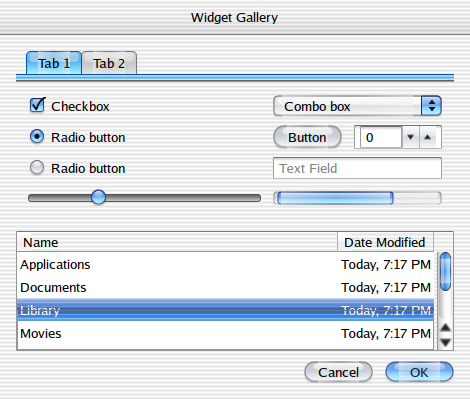
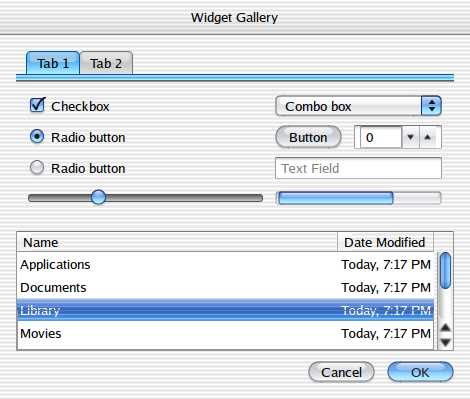
GTK: tile the gel middle instead of stretching it; tuck it under the caps
GTK 3 fades the edges of a stretched 1px image into transparency, which
left light bands across tabs, buttons and pop-ups, and the anti-aliased
clip edge at the caps left a seam. The middle column now repeats at its
natural size and starts 1px under each cap. Rows across a tab are flat
(157 in GTK 3, GTK 4 and Qt alike).

diff --git a/gtk/Pinstripe/gtk-4.0/gtk.css b/gtk/Pinstripe/gtk-4.0/gtk.css
@@ -35,10 +35,10 @@ label:disabled, label:backdrop:disabled { color: #8a8a8a; }
 button {
   min-height: 22px;
   min-width: 41px;
-  padding: 0 14px;
+  padding: 0 13px;  /* one less than the 14px caps: the middle tucks under them, no seam */
   border-style: solid;
   border-width: 0;
-  background-image: -gtk-scaled(url("assets/button-s.png"), url("assets/button-s@2.png")), -gtk-scaled(url("assets/button-e.png"), url("assets/button-e@2.png")), -gtk-scaled(url("assets/button-m.png"), url("assets/button-m@2.png")); background-position: left top, right top, left top; background-size: 14px 100%, 14px 100%, 100% 100%; background-repeat: no-repeat; background-origin: border-box, border-box, content-box; background-clip: border-box, border-box, content-box; border-image: none;
+  background-image: -gtk-scaled(url("assets/button-s.png"), url("assets/button-s@2.png")), -gtk-scaled(url("assets/button-e.png"), url("assets/button-e@2.png")), -gtk-scaled(url("assets/button-m.png"), url("assets/button-m@2.png")); background-position: left top, right top, left top; background-size: 14px 100%, 14px 100%, 1px 100%; background-repeat: no-repeat, no-repeat, repeat-x; background-origin: border-box, border-box, content-box; background-clip: border-box, border-box, content-box; border-image: none;
   border-radius: 0;
   box-shadow: none;
   color: #000000;
@@ -46,14 +46,14 @@ button {
   -gtk-icon-shadow: none;
 }
 button:active, button:checked {
-  background-image: -gtk-scaled(url("assets/button-pressed-s.png"), url("assets/button-pressed-s@2.png")), -gtk-scaled(url("assets/button-pressed-e.png"), url("assets/button-pressed-e@2.png")), -gtk-scaled(url("assets/button-pressed-m.png"), url("assets/button-pressed-m@2.png")); background-position: left top, right top, left top; background-size: 14px 100%, 14px 100%, 100% 100%; background-repeat: no-repeat; background-origin: border-box, border-box, content-box; background-clip: border-box, border-box, content-box; border-image: none;
+  background-image: -gtk-scaled(url("assets/button-pressed-s.png"), url("assets/button-pressed-s@2.png")), -gtk-scaled(url("assets/button-pressed-e.png"), url("assets/button-pressed-e@2.png")), -gtk-scaled(url("assets/button-pressed-m.png"), url("assets/button-pressed-m@2.png")); background-position: left top, right top, left top; background-size: 14px 100%, 14px 100%, 1px 100%; background-repeat: no-repeat, no-repeat, repeat-x; background-origin: border-box, border-box, content-box; background-clip: border-box, border-box, content-box; border-image: none;
 }
 button.suggested-action, button.default, button.default:focus {
-  background-image: -gtk-scaled(url("assets/button-default-s.png"), url("assets/button-default-s@2.png")), -gtk-scaled(url("assets/button-default-e.png"), url("assets/button-default-e@2.png")), -gtk-scaled(url("assets/button-default-m.png"), url("assets/button-default-m@2.png")); background-position: left top, right top, left top; background-size: 14px 100%, 14px 100%, 100% 100%; background-repeat: no-repeat; background-origin: border-box, border-box, content-box; background-clip: border-box, border-box, content-box; border-image: none;
+  background-image: -gtk-scaled(url("assets/button-default-s.png"), url("assets/button-default-s@2.png")), -gtk-scaled(url("assets/button-default-e.png"), url("assets/button-default-e@2.png")), -gtk-scaled(url("assets/button-default-m.png"), url("assets/button-default-m@2.png")); background-position: left top, right top, left top; background-size: 14px 100%, 14px 100%, 1px 100%; background-repeat: no-repeat, no-repeat, repeat-x; background-origin: border-box, border-box, content-box; background-clip: border-box, border-box, content-box; border-image: none;
   animation: pinstripe-pulse 1.7s ease-in-out infinite;
 }
 button.suggested-action:backdrop, button.default:backdrop {
-  background-image: -gtk-scaled(url("assets/button-s.png"), url("assets/button-s@2.png")), -gtk-scaled(url("assets/button-e.png"), url("assets/button-e@2.png")), -gtk-scaled(url("assets/button-m.png"), url("assets/button-m@2.png")); background-position: left top, right top, left top; background-size: 14px 100%, 14px 100%, 100% 100%; background-repeat: no-repeat; background-origin: border-box, border-box, content-box; background-clip: border-box, border-box, content-box; border-image: none;
+  background-image: -gtk-scaled(url("assets/button-s.png"), url("assets/button-s@2.png")), -gtk-scaled(url("assets/button-e.png"), url("assets/button-e@2.png")), -gtk-scaled(url("assets/button-m.png"), url("assets/button-m@2.png")); background-position: left top, right top, left top; background-size: 14px 100%, 14px 100%, 1px 100%; background-repeat: no-repeat, no-repeat, repeat-x; background-origin: border-box, border-box, content-box; background-clip: border-box, border-box, content-box; border-image: none;
   animation: none;
 }
 @keyframes pinstripe-pulse {
@@ -62,7 +62,7 @@ button.suggested-action:backdrop, button.default:backdrop {
   100% { opacity: 1.0; }
 }
 button:disabled { opacity: 0.55; color: #555555; }
-button.destructive-action { background-image: -gtk-scaled(url("assets/button-s.png"), url("assets/button-s@2.png")), -gtk-scaled(url("assets/button-e.png"), url("assets/button-e@2.png")), -gtk-scaled(url("assets/button-m.png"), url("assets/button-m@2.png")); background-position: left top, right top, left top; background-size: 14px 100%, 14px 100%, 100% 100%; background-repeat: no-repeat; background-origin: border-box, border-box, content-box; background-clip: border-box, border-box, content-box; border-image: none; color: #a01010; }
+button.destructive-action { background-image: -gtk-scaled(url("assets/button-s.png"), url("assets/button-s@2.png")), -gtk-scaled(url("assets/button-e.png"), url("assets/button-e@2.png")), -gtk-scaled(url("assets/button-m.png"), url("assets/button-m@2.png")); background-position: left top, right top, left top; background-size: 14px 100%, 14px 100%, 1px 100%; background-repeat: no-repeat, no-repeat, repeat-x; background-origin: border-box, border-box, content-box; background-clip: border-box, border-box, content-box; border-image: none; color: #a01010; }
 
 /* flat and toolbar buttons: no frame in Aqua, darken while pressed */
 button.flat, headerbar button:not(.titlebutton):not(.suggested-action):not(.close):not(.minimize):not(.maximize), toolbar button, .toolbar button,
@@ -180,18 +180,18 @@ scrollbar > range > trough > slider {
 }
 scrollbar.vertical slider {
   min-height: 24px;
-  padding: 7px 0 8px 0;
+  padding: 6px 0 7px 0;
   border-width: 0;
-  background-image: -gtk-scaled(url("assets/thumb-v-s.png"), url("assets/thumb-v-s@2.png")), -gtk-scaled(url("assets/thumb-v-e.png"), url("assets/thumb-v-e@2.png")), -gtk-scaled(url("assets/thumb-v-m.png"), url("assets/thumb-v-m@2.png")); background-position: left top, left bottom, left top; background-size: 100% 7px, 100% 8px, 100% 100%; background-repeat: no-repeat; background-origin: border-box, border-box, content-box; background-clip: border-box, border-box, content-box; border-image: none;
+  background-image: -gtk-scaled(url("assets/thumb-v-s.png"), url("assets/thumb-v-s@2.png")), -gtk-scaled(url("assets/thumb-v-e.png"), url("assets/thumb-v-e@2.png")), -gtk-scaled(url("assets/thumb-v-m.png"), url("assets/thumb-v-m@2.png")); background-position: left top, left bottom, left top; background-size: 100% 7px, 100% 8px, 100% 1px; background-repeat: no-repeat, no-repeat, repeat-y; background-origin: border-box, border-box, content-box; background-clip: border-box, border-box, content-box; border-image: none;
 }
 scrollbar.horizontal slider {
   min-width: 24px;
-  padding: 0 8px 0 7px;
+  padding: 0 7px 0 6px;
   border-width: 0;
-  background-image: -gtk-scaled(url("assets/thumb-h-s.png"), url("assets/thumb-h-s@2.png")), -gtk-scaled(url("assets/thumb-h-e.png"), url("assets/thumb-h-e@2.png")), -gtk-scaled(url("assets/thumb-h-m.png"), url("assets/thumb-h-m@2.png")); background-position: left top, right top, left top; background-size: 7px 100%, 8px 100%, 100% 100%; background-repeat: no-repeat; background-origin: border-box, border-box, content-box; background-clip: border-box, border-box, content-box; border-image: none;
+  background-image: -gtk-scaled(url("assets/thumb-h-s.png"), url("assets/thumb-h-s@2.png")), -gtk-scaled(url("assets/thumb-h-e.png"), url("assets/thumb-h-e@2.png")), -gtk-scaled(url("assets/thumb-h-m.png"), url("assets/thumb-h-m@2.png")); background-position: left top, right top, left top; background-size: 7px 100%, 8px 100%, 1px 100%; background-repeat: no-repeat, no-repeat, repeat-x; background-origin: border-box, border-box, content-box; background-clip: border-box, border-box, content-box; border-image: none;
 }
-scrollbar.vertical slider:backdrop { background-image: -gtk-scaled(url("assets/thumb-v-backdrop-s.png"), url("assets/thumb-v-backdrop-s@2.png")), -gtk-scaled(url("assets/thumb-v-backdrop-e.png"), url("assets/thumb-v-backdrop-e@2.png")), -gtk-scaled(url("assets/thumb-v-backdrop-m.png"), url("assets/thumb-v-backdrop-m@2.png")); background-position: left top, left bottom, left top; background-size: 100% 7px, 100% 8px, 100% 100%; background-repeat: no-repeat; background-origin: border-box, border-box, content-box; background-clip: border-box, border-box, content-box; border-image: none; }
-scrollbar.horizontal slider:backdrop { background-image: -gtk-scaled(url("assets/thumb-h-backdrop-s.png"), url("assets/thumb-h-backdrop-s@2.png")), -gtk-scaled(url("assets/thumb-h-backdrop-e.png"), url("assets/thumb-h-backdrop-e@2.png")), -gtk-scaled(url("assets/thumb-h-backdrop-m.png"), url("assets/thumb-h-backdrop-m@2.png")); background-position: left top, right top, left top; background-size: 7px 100%, 8px 100%, 100% 100%; background-repeat: no-repeat; background-origin: border-box, border-box, content-box; background-clip: border-box, border-box, content-box; border-image: none; }
+scrollbar.vertical slider:backdrop { background-image: -gtk-scaled(url("assets/thumb-v-backdrop-s.png"), url("assets/thumb-v-backdrop-s@2.png")), -gtk-scaled(url("assets/thumb-v-backdrop-e.png"), url("assets/thumb-v-backdrop-e@2.png")), -gtk-scaled(url("assets/thumb-v-backdrop-m.png"), url("assets/thumb-v-backdrop-m@2.png")); background-position: left top, left bottom, left top; background-size: 100% 7px, 100% 8px, 100% 1px; background-repeat: no-repeat, no-repeat, repeat-y; background-origin: border-box, border-box, content-box; background-clip: border-box, border-box, content-box; border-image: none; }
+scrollbar.horizontal slider:backdrop { background-image: -gtk-scaled(url("assets/thumb-h-backdrop-s.png"), url("assets/thumb-h-backdrop-s@2.png")), -gtk-scaled(url("assets/thumb-h-backdrop-e.png"), url("assets/thumb-h-backdrop-e@2.png")), -gtk-scaled(url("assets/thumb-h-backdrop-m.png"), url("assets/thumb-h-backdrop-m@2.png")); background-position: left top, right top, left top; background-size: 7px 100%, 8px 100%, 1px 100%; background-repeat: no-repeat, no-repeat, repeat-x; background-origin: border-box, border-box, content-box; background-clip: border-box, border-box, content-box; border-image: none; }
 scrollbar button {
   min-width: 15px; min-height: 15px;
   padding: 0; border-width: 0; border-image: none; animation: none;
@@ -248,20 +248,20 @@ scale slider:backdrop { background-image: -gtk-scaled(url("assets/knob-backdrop.
 /* ---------------- progress bars: light gel groove, blue gel fill (grey in the background) */
 progressbar trough {
   min-height: 14px; min-width: 14px;
-  padding: 0 4px;
+  padding: 0 3px;
   border-style: solid;
   border-width: 0;
-  background-image: -gtk-scaled(url("assets/trough-s.png"), url("assets/trough-s@2.png")), -gtk-scaled(url("assets/trough-e.png"), url("assets/trough-e@2.png")), -gtk-scaled(url("assets/trough-m.png"), url("assets/trough-m@2.png")); background-position: left top, right top, left top; background-size: 4px 100%, 4px 100%, 100% 100%; background-repeat: no-repeat; background-origin: border-box, border-box, content-box; background-clip: border-box, border-box, content-box; border-image: none;
+  background-image: -gtk-scaled(url("assets/trough-s.png"), url("assets/trough-s@2.png")), -gtk-scaled(url("assets/trough-e.png"), url("assets/trough-e@2.png")), -gtk-scaled(url("assets/trough-m.png"), url("assets/trough-m@2.png")); background-position: left top, right top, left top; background-size: 4px 100%, 4px 100%, 1px 100%; background-repeat: no-repeat, no-repeat, repeat-x; background-origin: border-box, border-box, content-box; background-clip: border-box, border-box, content-box; border-image: none;
 }
 progressbar progress {
   min-height: 14px; min-width: 8px;
-  padding: 0 4px;
+  padding: 0 3px;
   margin: 0;
   border-style: solid;
   border-width: 0;
-  background-image: -gtk-scaled(url("assets/progress-s.png"), url("assets/progress-s@2.png")), -gtk-scaled(url("assets/progress-e.png"), url("assets/progress-e@2.png")), -gtk-scaled(url("assets/progress-m.png"), url("assets/progress-m@2.png")); background-position: left top, right top, left top; background-size: 4px 100%, 4px 100%, 100% 100%; background-repeat: no-repeat; background-origin: border-box, border-box, content-box; background-clip: border-box, border-box, content-box; border-image: none;
+  background-image: -gtk-scaled(url("assets/progress-s.png"), url("assets/progress-s@2.png")), -gtk-scaled(url("assets/progress-e.png"), url("assets/progress-e@2.png")), -gtk-scaled(url("assets/progress-m.png"), url("assets/progress-m@2.png")); background-position: left top, right top, left top; background-size: 4px 100%, 4px 100%, 1px 100%; background-repeat: no-repeat, no-repeat, repeat-x; background-origin: border-box, border-box, content-box; background-clip: border-box, border-box, content-box; border-image: none;
 }
-progressbar progress:backdrop { background-image: -gtk-scaled(url("assets/progress-backdrop-s.png"), url("assets/progress-backdrop-s@2.png")), -gtk-scaled(url("assets/progress-backdrop-e.png"), url("assets/progress-backdrop-e@2.png")), -gtk-scaled(url("assets/progress-backdrop-m.png"), url("assets/progress-backdrop-m@2.png")); background-position: left top, right top, left top; background-size: 4px 100%, 4px 100%, 100% 100%; background-repeat: no-repeat; background-origin: border-box, border-box, content-box; background-clip: border-box, border-box, content-box; border-image: none; }
+progressbar progress:backdrop { background-image: -gtk-scaled(url("assets/progress-backdrop-s.png"), url("assets/progress-backdrop-s@2.png")), -gtk-scaled(url("assets/progress-backdrop-e.png"), url("assets/progress-backdrop-e@2.png")), -gtk-scaled(url("assets/progress-backdrop-m.png"), url("assets/progress-backdrop-m@2.png")); background-position: left top, right top, left top; background-size: 4px 100%, 4px 100%, 1px 100%; background-repeat: no-repeat, no-repeat, repeat-x; background-origin: border-box, border-box, content-box; background-clip: border-box, border-box, content-box; border-image: none; }
 progressbar.osd progress { min-height: 4px; }
 
 /* ---------------- notebooks: 23px tabs centred over a 6px blue accent bar */
@@ -278,16 +278,16 @@ notebook > header.top {
 }
 notebook > header tab {
   min-height: 23px;
-  padding: 0 12px;
+  padding: 0 11px;
   margin: 0 -1px 0 0;
   background-color: transparent;
   border-style: solid;
   border-width: 0;
-  background-image: -gtk-scaled(url("assets/tab-s.png"), url("assets/tab-s@2.png")), -gtk-scaled(url("assets/tab-e.png"), url("assets/tab-e@2.png")), -gtk-scaled(url("assets/tab-m.png"), url("assets/tab-m@2.png")); background-position: left top, right top, left top; background-size: 12px 100%, 12px 100%, 100% 100%; background-repeat: no-repeat; background-origin: border-box, border-box, content-box; background-clip: border-box, border-box, content-box; border-image: none;
+  background-image: -gtk-scaled(url("assets/tab-s.png"), url("assets/tab-s@2.png")), -gtk-scaled(url("assets/tab-e.png"), url("assets/tab-e@2.png")), -gtk-scaled(url("assets/tab-m.png"), url("assets/tab-m@2.png")); background-position: left top, right top, left top; background-size: 12px 100%, 12px 100%, 1px 100%; background-repeat: no-repeat, no-repeat, repeat-x; background-origin: border-box, border-box, content-box; background-clip: border-box, border-box, content-box; border-image: none;
   color: #000000;
 }
-notebook > header tab:checked { background-image: -gtk-scaled(url("assets/tab-active-s.png"), url("assets/tab-active-s@2.png")), -gtk-scaled(url("assets/tab-active-e.png"), url("assets/tab-active-e@2.png")), -gtk-scaled(url("assets/tab-active-m.png"), url("assets/tab-active-m@2.png")); background-position: left top, right top, left top; background-size: 12px 100%, 12px 100%, 100% 100%; background-repeat: no-repeat; background-origin: border-box, border-box, content-box; background-clip: border-box, border-box, content-box; border-image: none; }
-notebook > header tab:checked:backdrop { background-image: -gtk-scaled(url("assets/tab-active-backdrop-s.png"), url("assets/tab-active-backdrop-s@2.png")), -gtk-scaled(url("assets/tab-active-backdrop-e.png"), url("assets/tab-active-backdrop-e@2.png")), -gtk-scaled(url("assets/tab-active-backdrop-m.png"), url("assets/tab-active-backdrop-m@2.png")); background-position: left top, right top, left top; background-size: 12px 100%, 12px 100%, 100% 100%; background-repeat: no-repeat; background-origin: border-box, border-box, content-box; background-clip: border-box, border-box, content-box; border-image: none; }
+notebook > header tab:checked { background-image: -gtk-scaled(url("assets/tab-active-s.png"), url("assets/tab-active-s@2.png")), -gtk-scaled(url("assets/tab-active-e.png"), url("assets/tab-active-e@2.png")), -gtk-scaled(url("assets/tab-active-m.png"), url("assets/tab-active-m@2.png")); background-position: left top, right top, left top; background-size: 12px 100%, 12px 100%, 1px 100%; background-repeat: no-repeat, no-repeat, repeat-x; background-origin: border-box, border-box, content-box; background-clip: border-box, border-box, content-box; border-image: none; }
+notebook > header tab:checked:backdrop { background-image: -gtk-scaled(url("assets/tab-active-backdrop-s.png"), url("assets/tab-active-backdrop-s@2.png")), -gtk-scaled(url("assets/tab-active-backdrop-e.png"), url("assets/tab-active-backdrop-e@2.png")), -gtk-scaled(url("assets/tab-active-backdrop-m.png"), url("assets/tab-active-backdrop-m@2.png")); background-position: left top, right top, left top; background-size: 12px 100%, 12px 100%, 1px 100%; background-repeat: no-repeat, no-repeat, repeat-x; background-origin: border-box, border-box, content-box; background-clip: border-box, border-box, content-box; border-image: none; }
 notebook > stack:not(:only-child) {
   background-color: rgba(0, 0, 0, 0.03);
   background-image: linear-gradient(to bottom, rgba(0,0,0,0.16), rgba(0,0,0,0) 6px);
@@ -329,13 +329,13 @@ popover > contents separator, menu separator { margin: 5px 0; background: none; 
 /* ---------------- combo boxes / drop-downs: white pop-up with the blue double-arrow cap */
 combobox button.combo, dropdown > button, button.dropdown, combobox > box > button {
   min-height: 22px;
-  padding: 0 29px 0 9px;
+  padding: 0 28px 0 8px;
   border-style: solid;
   border-width: 0;
-  background-image: -gtk-scaled(url("assets/popup-s.png"), url("assets/popup-s@2.png")), -gtk-scaled(url("assets/popup-e.png"), url("assets/popup-e@2.png")), -gtk-scaled(url("assets/popup-m.png"), url("assets/popup-m@2.png")); background-position: left top, right top, left top; background-size: 9px 100%, 29px 100%, 100% 100%; background-repeat: no-repeat; background-origin: border-box, border-box, content-box; background-clip: border-box, border-box, content-box; border-image: none;
+  background-image: -gtk-scaled(url("assets/popup-s.png"), url("assets/popup-s@2.png")), -gtk-scaled(url("assets/popup-e.png"), url("assets/popup-e@2.png")), -gtk-scaled(url("assets/popup-m.png"), url("assets/popup-m@2.png")); background-position: left top, right top, left top; background-size: 9px 100%, 29px 100%, 1px 100%; background-repeat: no-repeat, no-repeat, repeat-x; background-origin: border-box, border-box, content-box; background-clip: border-box, border-box, content-box; border-image: none;
   animation: none;
 }
-combobox button.combo:backdrop, dropdown > button:backdrop { background-image: -gtk-scaled(url("assets/popup-backdrop-s.png"), url("assets/popup-backdrop-s@2.png")), -gtk-scaled(url("assets/popup-backdrop-e.png"), url("assets/popup-backdrop-e@2.png")), -gtk-scaled(url("assets/popup-backdrop-m.png"), url("assets/popup-backdrop-m@2.png")); background-position: left top, right top, left top; background-size: 9px 100%, 29px 100%, 100% 100%; background-repeat: no-repeat; background-origin: border-box, border-box, content-box; background-clip: border-box, border-box, content-box; border-image: none; }
+combobox button.combo:backdrop, dropdown > button:backdrop { background-image: -gtk-scaled(url("assets/popup-backdrop-s.png"), url("assets/popup-backdrop-s@2.png")), -gtk-scaled(url("assets/popup-backdrop-e.png"), url("assets/popup-backdrop-e@2.png")), -gtk-scaled(url("assets/popup-backdrop-m.png"), url("assets/popup-backdrop-m@2.png")); background-position: left top, right top, left top; background-size: 9px 100%, 29px 100%, 1px 100%; background-repeat: no-repeat, no-repeat, repeat-x; background-origin: border-box, border-box, content-box; background-clip: border-box, border-box, content-box; border-image: none; }
 combobox arrow, dropdown arrow { -gtk-icon-source: none; min-width: 0; min-height: 0; }
 
 /* ---------------- tooltips: Aqua's pale yellow */

diff --git a/gtk/Pinstripe/gtk-3.0/gtk.css b/gtk/Pinstripe/gtk-3.0/gtk.css
@@ -35,10 +35,10 @@ label:disabled, label:backdrop:disabled { color: #8a8a8a; }
 button {
   min-height: 22px;
   min-width: 41px;
-  padding: 0 14px;
+  padding: 0 13px;  /* one less than the 14px caps: the middle tucks under them, no seam */
   border-style: solid;
   border-width: 0;
-  background-image: -gtk-scaled(url("assets/button-s.png"), url("assets/button-s@2.png")), -gtk-scaled(url("assets/button-e.png"), url("assets/button-e@2.png")), -gtk-scaled(url("assets/button-m.png"), url("assets/button-m@2.png")); background-position: left top, right top, left top; background-size: 14px 100%, 14px 100%, 100% 100%; background-repeat: no-repeat; background-origin: border-box, border-box, content-box; background-clip: border-box, border-box, content-box; border-image: none;
+  background-image: -gtk-scaled(url("assets/button-s.png"), url("assets/button-s@2.png")), -gtk-scaled(url("assets/button-e.png"), url("assets/button-e@2.png")), -gtk-scaled(url("assets/button-m.png"), url("assets/button-m@2.png")); background-position: left top, right top, left top; background-size: 14px 100%, 14px 100%, 1px 100%; background-repeat: no-repeat, no-repeat, repeat-x; background-origin: border-box, border-box, content-box; background-clip: border-box, border-box, content-box; border-image: none;
   border-radius: 0;
   box-shadow: none;
   color: #000000;
@@ -46,14 +46,14 @@ button {
   -gtk-icon-shadow: none;
 }
 button:active, button:checked {
-  background-image: -gtk-scaled(url("assets/button-pressed-s.png"), url("assets/button-pressed-s@2.png")), -gtk-scaled(url("assets/button-pressed-e.png"), url("assets/button-pressed-e@2.png")), -gtk-scaled(url("assets/button-pressed-m.png"), url("assets/button-pressed-m@2.png")); background-position: left top, right top, left top; background-size: 14px 100%, 14px 100%, 100% 100%; background-repeat: no-repeat; background-origin: border-box, border-box, content-box; background-clip: border-box, border-box, content-box; border-image: none;
+  background-image: -gtk-scaled(url("assets/button-pressed-s.png"), url("assets/button-pressed-s@2.png")), -gtk-scaled(url("assets/button-pressed-e.png"), url("assets/button-pressed-e@2.png")), -gtk-scaled(url("assets/button-pressed-m.png"), url("assets/button-pressed-m@2.png")); background-position: left top, right top, left top; background-size: 14px 100%, 14px 100%, 1px 100%; background-repeat: no-repeat, no-repeat, repeat-x; background-origin: border-box, border-box, content-box; background-clip: border-box, border-box, content-box; border-image: none;
 }
 button.suggested-action, button.default, button.default:focus {
-  background-image: -gtk-scaled(url("assets/button-default-s.png"), url("assets/button-default-s@2.png")), -gtk-scaled(url("assets/button-default-e.png"), url("assets/button-default-e@2.png")), -gtk-scaled(url("assets/button-default-m.png"), url("assets/button-default-m@2.png")); background-position: left top, right top, left top; background-size: 14px 100%, 14px 100%, 100% 100%; background-repeat: no-repeat; background-origin: border-box, border-box, content-box; background-clip: border-box, border-box, content-box; border-image: none;
+  background-image: -gtk-scaled(url("assets/button-default-s.png"), url("assets/button-default-s@2.png")), -gtk-scaled(url("assets/button-default-e.png"), url("assets/button-default-e@2.png")), -gtk-scaled(url("assets/button-default-m.png"), url("assets/button-default-m@2.png")); background-position: left top, right top, left top; background-size: 14px 100%, 14px 100%, 1px 100%; background-repeat: no-repeat, no-repeat, repeat-x; background-origin: border-box, border-box, content-box; background-clip: border-box, border-box, content-box; border-image: none;
   animation: pinstripe-pulse 1.7s ease-in-out infinite;
 }
 button.suggested-action:backdrop, button.default:backdrop {
-  background-image: -gtk-scaled(url("assets/button-s.png"), url("assets/button-s@2.png")), -gtk-scaled(url("assets/button-e.png"), url("assets/button-e@2.png")), -gtk-scaled(url("assets/button-m.png"), url("assets/button-m@2.png")); background-position: left top, right top, left top; background-size: 14px 100%, 14px 100%, 100% 100%; background-repeat: no-repeat; background-origin: border-box, border-box, content-box; background-clip: border-box, border-box, content-box; border-image: none;
+  background-image: -gtk-scaled(url("assets/button-s.png"), url("assets/button-s@2.png")), -gtk-scaled(url("assets/button-e.png"), url("assets/button-e@2.png")), -gtk-scaled(url("assets/button-m.png"), url("assets/button-m@2.png")); background-position: left top, right top, left top; background-size: 14px 100%, 14px 100%, 1px 100%; background-repeat: no-repeat, no-repeat, repeat-x; background-origin: border-box, border-box, content-box; background-clip: border-box, border-box, content-box; border-image: none;
   animation: none;
 }
 @keyframes pinstripe-pulse {
@@ -62,7 +62,7 @@ button.suggested-action:backdrop, button.default:backdrop {
   100% { opacity: 1.0; }
 }
 button:disabled { opacity: 0.55; color: #555555; }
-button.destructive-action { background-image: -gtk-scaled(url("assets/button-s.png"), url("assets/button-s@2.png")), -gtk-scaled(url("assets/button-e.png"), url("assets/button-e@2.png")), -gtk-scaled(url("assets/button-m.png"), url("assets/button-m@2.png")); background-position: left top, right top, left top; background-size: 14px 100%, 14px 100%, 100% 100%; background-repeat: no-repeat; background-origin: border-box, border-box, content-box; background-clip: border-box, border-box, content-box; border-image: none; color: #a01010; }
+button.destructive-action { background-image: -gtk-scaled(url("assets/button-s.png"), url("assets/button-s@2.png")), -gtk-scaled(url("assets/button-e.png"), url("assets/button-e@2.png")), -gtk-scaled(url("assets/button-m.png"), url("assets/button-m@2.png")); background-position: left top, right top, left top; background-size: 14px 100%, 14px 100%, 1px 100%; background-repeat: no-repeat, no-repeat, repeat-x; background-origin: border-box, border-box, content-box; background-clip: border-box, border-box, content-box; border-image: none; color: #a01010; }
 
 /* flat and toolbar buttons: no frame in Aqua, darken while pressed */
 button.flat, headerbar button:not(.titlebutton):not(.suggested-action):not(.close):not(.minimize):not(.maximize), toolbar button, .toolbar button,
@@ -180,18 +180,18 @@ scrollbar slider {
 }
 scrollbar.vertical slider {
   min-height: 24px;
-  padding: 7px 0 8px 0;
+  padding: 6px 0 7px 0;
   border-width: 0;
-  background-image: -gtk-scaled(url("assets/thumb-v-s.png"), url("assets/thumb-v-s@2.png")), -gtk-scaled(url("assets/thumb-v-e.png"), url("assets/thumb-v-e@2.png")), -gtk-scaled(url("assets/thumb-v-m.png"), url("assets/thumb-v-m@2.png")); background-position: left top, left bottom, left top; background-size: 100% 7px, 100% 8px, 100% 100%; background-repeat: no-repeat; background-origin: border-box, border-box, content-box; background-clip: border-box, border-box, content-box; border-image: none;
+  background-image: -gtk-scaled(url("assets/thumb-v-s.png"), url("assets/thumb-v-s@2.png")), -gtk-scaled(url("assets/thumb-v-e.png"), url("assets/thumb-v-e@2.png")), -gtk-scaled(url("assets/thumb-v-m.png"), url("assets/thumb-v-m@2.png")); background-position: left top, left bottom, left top; background-size: 100% 7px, 100% 8px, 100% 1px; background-repeat: no-repeat, no-repeat, repeat-y; background-origin: border-box, border-box, content-box; background-clip: border-box, border-box, content-box; border-image: none;
 }
 scrollbar.horizontal slider {
   min-width: 24px;
-  padding: 0 8px 0 7px;
+  padding: 0 7px 0 6px;
   border-width: 0;
-  background-image: -gtk-scaled(url("assets/thumb-h-s.png"), url("assets/thumb-h-s@2.png")), -gtk-scaled(url("assets/thumb-h-e.png"), url("assets/thumb-h-e@2.png")), -gtk-scaled(url("assets/thumb-h-m.png"), url("assets/thumb-h-m@2.png")); background-position: left top, right top, left top; background-size: 7px 100%, 8px 100%, 100% 100%; background-repeat: no-repeat; background-origin: border-box, border-box, content-box; background-clip: border-box, border-box, content-box; border-image: none;
+  background-image: -gtk-scaled(url("assets/thumb-h-s.png"), url("assets/thumb-h-s@2.png")), -gtk-scaled(url("assets/thumb-h-e.png"), url("assets/thumb-h-e@2.png")), -gtk-scaled(url("assets/thumb-h-m.png"), url("assets/thumb-h-m@2.png")); background-position: left top, right top, left top; background-size: 7px 100%, 8px 100%, 1px 100%; background-repeat: no-repeat, no-repeat, repeat-x; background-origin: border-box, border-box, content-box; background-clip: border-box, border-box, content-box; border-image: none;
 }
-scrollbar.vertical slider:backdrop { background-image: -gtk-scaled(url("assets/thumb-v-backdrop-s.png"), url("assets/thumb-v-backdrop-s@2.png")), -gtk-scaled(url("assets/thumb-v-backdrop-e.png"), url("assets/thumb-v-backdrop-e@2.png")), -gtk-scaled(url("assets/thumb-v-backdrop-m.png"), url("assets/thumb-v-backdrop-m@2.png")); background-position: left top, left bottom, left top; background-size: 100% 7px, 100% 8px, 100% 100%; background-repeat: no-repeat; background-origin: border-box, border-box, content-box; background-clip: border-box, border-box, content-box; border-image: none; }
-scrollbar.horizontal slider:backdrop { background-image: -gtk-scaled(url("assets/thumb-h-backdrop-s.png"), url("assets/thumb-h-backdrop-s@2.png")), -gtk-scaled(url("assets/thumb-h-backdrop-e.png"), url("assets/thumb-h-backdrop-e@2.png")), -gtk-scaled(url("assets/thumb-h-backdrop-m.png"), url("assets/thumb-h-backdrop-m@2.png")); background-position: left top, right top, left top; background-size: 7px 100%, 8px 100%, 100% 100%; background-repeat: no-repeat; background-origin: border-box, border-box, content-box; background-clip: border-box, border-box, content-box; border-image: none; }
+scrollbar.vertical slider:backdrop { background-image: -gtk-scaled(url("assets/thumb-v-backdrop-s.png"), url("assets/thumb-v-backdrop-s@2.png")), -gtk-scaled(url("assets/thumb-v-backdrop-e.png"), url("assets/thumb-v-backdrop-e@2.png")), -gtk-scaled(url("assets/thumb-v-backdrop-m.png"), url("assets/thumb-v-backdrop-m@2.png")); background-position: left top, left bottom, left top; background-size: 100% 7px, 100% 8px, 100% 1px; background-repeat: no-repeat, no-repeat, repeat-y; background-origin: border-box, border-box, content-box; background-clip: border-box, border-box, content-box; border-image: none; }
+scrollbar.horizontal slider:backdrop { background-image: -gtk-scaled(url("assets/thumb-h-backdrop-s.png"), url("assets/thumb-h-backdrop-s@2.png")), -gtk-scaled(url("assets/thumb-h-backdrop-e.png"), url("assets/thumb-h-backdrop-e@2.png")), -gtk-scaled(url("assets/thumb-h-backdrop-m.png"), url("assets/thumb-h-backdrop-m@2.png")); background-position: left top, right top, left top; background-size: 7px 100%, 8px 100%, 1px 100%; background-repeat: no-repeat, no-repeat, repeat-x; background-origin: border-box, border-box, content-box; background-clip: border-box, border-box, content-box; border-image: none; }
 scrollbar button {
   min-width: 15px; min-height: 15px;
   padding: 0; border-width: 0; border-image: none; animation: none;
@@ -253,20 +253,20 @@ scale slider:backdrop { background-image: -gtk-scaled(url("assets/knob-backdrop.
 /* ---------------- progress bars: light gel groove, blue gel fill (grey in the background) */
 progressbar trough {
   min-height: 14px; min-width: 14px;
-  padding: 0 4px;
+  padding: 0 3px;
   border-style: solid;
   border-width: 0;
-  background-image: -gtk-scaled(url("assets/trough-s.png"), url("assets/trough-s@2.png")), -gtk-scaled(url("assets/trough-e.png"), url("assets/trough-e@2.png")), -gtk-scaled(url("assets/trough-m.png"), url("assets/trough-m@2.png")); background-position: left top, right top, left top; background-size: 4px 100%, 4px 100%, 100% 100%; background-repeat: no-repeat; background-origin: border-box, border-box, content-box; background-clip: border-box, border-box, content-box; border-image: none;
+  background-image: -gtk-scaled(url("assets/trough-s.png"), url("assets/trough-s@2.png")), -gtk-scaled(url("assets/trough-e.png"), url("assets/trough-e@2.png")), -gtk-scaled(url("assets/trough-m.png"), url("assets/trough-m@2.png")); background-position: left top, right top, left top; background-size: 4px 100%, 4px 100%, 1px 100%; background-repeat: no-repeat, no-repeat, repeat-x; background-origin: border-box, border-box, content-box; background-clip: border-box, border-box, content-box; border-image: none;
 }
 progressbar progress {
   min-height: 14px; min-width: 8px;
-  padding: 0 4px;
+  padding: 0 3px;
   margin: 0;
   border-style: solid;
   border-width: 0;
-  background-image: -gtk-scaled(url("assets/progress-s.png"), url("assets/progress-s@2.png")), -gtk-scaled(url("assets/progress-e.png"), url("assets/progress-e@2.png")), -gtk-scaled(url("assets/progress-m.png"), url("assets/progress-m@2.png")); background-position: left top, right top, left top; background-size: 4px 100%, 4px 100%, 100% 100%; background-repeat: no-repeat; background-origin: border-box, border-box, content-box; background-clip: border-box, border-box, content-box; border-image: none;
+  background-image: -gtk-scaled(url("assets/progress-s.png"), url("assets/progress-s@2.png")), -gtk-scaled(url("assets/progress-e.png"), url("assets/progress-e@2.png")), -gtk-scaled(url("assets/progress-m.png"), url("assets/progress-m@2.png")); background-position: left top, right top, left top; background-size: 4px 100%, 4px 100%, 1px 100%; background-repeat: no-repeat, no-repeat, repeat-x; background-origin: border-box, border-box, content-box; background-clip: border-box, border-box, content-box; border-image: none;
 }
-progressbar progress:backdrop { background-image: -gtk-scaled(url("assets/progress-backdrop-s.png"), url("assets/progress-backdrop-s@2.png")), -gtk-scaled(url("assets/progress-backdrop-e.png"), url("assets/progress-backdrop-e@2.png")), -gtk-scaled(url("assets/progress-backdrop-m.png"), url("assets/progress-backdrop-m@2.png")); background-position: left top, right top, left top; background-size: 4px 100%, 4px 100%, 100% 100%; background-repeat: no-repeat; background-origin: border-box, border-box, content-box; background-clip: border-box, border-box, content-box; border-image: none; }
+progressbar progress:backdrop { background-image: -gtk-scaled(url("assets/progress-backdrop-s.png"), url("assets/progress-backdrop-s@2.png")), -gtk-scaled(url("assets/progress-backdrop-e.png"), url("assets/progress-backdrop-e@2.png")), -gtk-scaled(url("assets/progress-backdrop-m.png"), url("assets/progress-backdrop-m@2.png")); background-position: left top, right top, left top; background-size: 4px 100%, 4px 100%, 1px 100%; background-repeat: no-repeat, no-repeat, repeat-x; background-origin: border-box, border-box, content-box; background-clip: border-box, border-box, content-box; border-image: none; }
 progressbar.osd progress { min-height: 4px; }
 
 /* ---------------- notebooks: 23px tabs centred over a 6px blue accent bar */
@@ -283,16 +283,16 @@ notebook > header.top {
 }
 notebook > header tab {
   min-height: 23px;
-  padding: 0 12px;
+  padding: 0 11px;
   margin: 0 -1px 0 0;
   background-color: transparent;
   border-style: solid;
   border-width: 0;
-  background-image: -gtk-scaled(url("assets/tab-s.png"), url("assets/tab-s@2.png")), -gtk-scaled(url("assets/tab-e.png"), url("assets/tab-e@2.png")), -gtk-scaled(url("assets/tab-m.png"), url("assets/tab-m@2.png")); background-position: left top, right top, left top; background-size: 12px 100%, 12px 100%, 100% 100%; background-repeat: no-repeat; background-origin: border-box, border-box, content-box; background-clip: border-box, border-box, content-box; border-image: none;
+  background-image: -gtk-scaled(url("assets/tab-s.png"), url("assets/tab-s@2.png")), -gtk-scaled(url("assets/tab-e.png"), url("assets/tab-e@2.png")), -gtk-scaled(url("assets/tab-m.png"), url("assets/tab-m@2.png")); background-position: left top, right top, left top; background-size: 12px 100%, 12px 100%, 1px 100%; background-repeat: no-repeat, no-repeat, repeat-x; background-origin: border-box, border-box, content-box; background-clip: border-box, border-box, content-box; border-image: none;
   color: #000000;
 }
-notebook > header tab:checked { background-image: -gtk-scaled(url("assets/tab-active-s.png"), url("assets/tab-active-s@2.png")), -gtk-scaled(url("assets/tab-active-e.png"), url("assets/tab-active-e@2.png")), -gtk-scaled(url("assets/tab-active-m.png"), url("assets/tab-active-m@2.png")); background-position: left top, right top, left top; background-size: 12px 100%, 12px 100%, 100% 100%; background-repeat: no-repeat; background-origin: border-box, border-box, content-box; background-clip: border-box, border-box, content-box; border-image: none; }
-notebook > header tab:checked:backdrop { background-image: -gtk-scaled(url("assets/tab-active-backdrop-s.png"), url("assets/tab-active-backdrop-s@2.png")), -gtk-scaled(url("assets/tab-active-backdrop-e.png"), url("assets/tab-active-backdrop-e@2.png")), -gtk-scaled(url("assets/tab-active-backdrop-m.png"), url("assets/tab-active-backdrop-m@2.png")); background-position: left top, right top, left top; background-size: 12px 100%, 12px 100%, 100% 100%; background-repeat: no-repeat; background-origin: border-box, border-box, content-box; background-clip: border-box, border-box, content-box; border-image: none; }
+notebook > header tab:checked { background-image: -gtk-scaled(url("assets/tab-active-s.png"), url("assets/tab-active-s@2.png")), -gtk-scaled(url("assets/tab-active-e.png"), url("assets/tab-active-e@2.png")), -gtk-scaled(url("assets/tab-active-m.png"), url("assets/tab-active-m@2.png")); background-position: left top, right top, left top; background-size: 12px 100%, 12px 100%, 1px 100%; background-repeat: no-repeat, no-repeat, repeat-x; background-origin: border-box, border-box, content-box; background-clip: border-box, border-box, content-box; border-image: none; }
+notebook > header tab:checked:backdrop { background-image: -gtk-scaled(url("assets/tab-active-backdrop-s.png"), url("assets/tab-active-backdrop-s@2.png")), -gtk-scaled(url("assets/tab-active-backdrop-e.png"), url("assets/tab-active-backdrop-e@2.png")), -gtk-scaled(url("assets/tab-active-backdrop-m.png"), url("assets/tab-active-backdrop-m@2.png")); background-position: left top, right top, left top; background-size: 12px 100%, 12px 100%, 1px 100%; background-repeat: no-repeat, no-repeat, repeat-x; background-origin: border-box, border-box, content-box; background-clip: border-box, border-box, content-box; border-image: none; }
 notebook > stack:not(:only-child) {
   background-color: rgba(0, 0, 0, 0.03);
   background-image: linear-gradient(to bottom, rgba(0,0,0,0.16), rgba(0,0,0,0) 6px);
@@ -334,13 +334,13 @@ popover separator, menu separator { margin: 5px 0; background: none; }
 /* ---------------- combo boxes / drop-downs: white pop-up with the blue double-arrow cap */
 combobox button.combo, dropdown > button, button.dropdown, combobox > box > button {
   min-height: 22px;
-  padding: 0 29px 0 9px;
+  padding: 0 28px 0 8px;
   border-style: solid;
   border-width: 0;
-  background-image: -gtk-scaled(url("assets/popup-s.png"), url("assets/popup-s@2.png")), -gtk-scaled(url("assets/popup-e.png"), url("assets/popup-e@2.png")), -gtk-scaled(url("assets/popup-m.png"), url("assets/popup-m@2.png")); background-position: left top, right top, left top; background-size: 9px 100%, 29px 100%, 100% 100%; background-repeat: no-repeat; background-origin: border-box, border-box, content-box; background-clip: border-box, border-box, content-box; border-image: none;
+  background-image: -gtk-scaled(url("assets/popup-s.png"), url("assets/popup-s@2.png")), -gtk-scaled(url("assets/popup-e.png"), url("assets/popup-e@2.png")), -gtk-scaled(url("assets/popup-m.png"), url("assets/popup-m@2.png")); background-position: left top, right top, left top; background-size: 9px 100%, 29px 100%, 1px 100%; background-repeat: no-repeat, no-repeat, repeat-x; background-origin: border-box, border-box, content-box; background-clip: border-box, border-box, content-box; border-image: none;
   animation: none;
 }
-combobox button.combo:backdrop, dropdown > button:backdrop { background-image: -gtk-scaled(url("assets/popup-backdrop-s.png"), url("assets/popup-backdrop-s@2.png")), -gtk-scaled(url("assets/popup-backdrop-e.png"), url("assets/popup-backdrop-e@2.png")), -gtk-scaled(url("assets/popup-backdrop-m.png"), url("assets/popup-backdrop-m@2.png")); background-position: left top, right top, left top; background-size: 9px 100%, 29px 100%, 100% 100%; background-repeat: no-repeat; background-origin: border-box, border-box, content-box; background-clip: border-box, border-box, content-box; border-image: none; }
+combobox button.combo:backdrop, dropdown > button:backdrop { background-image: -gtk-scaled(url("assets/popup-backdrop-s.png"), url("assets/popup-backdrop-s@2.png")), -gtk-scaled(url("assets/popup-backdrop-e.png"), url("assets/popup-backdrop-e@2.png")), -gtk-scaled(url("assets/popup-backdrop-m.png"), url("assets/popup-backdrop-m@2.png")); background-position: left top, right top, left top; background-size: 9px 100%, 29px 100%, 1px 100%; background-repeat: no-repeat, no-repeat, repeat-x; background-origin: border-box, border-box, content-box; background-clip: border-box, border-box, content-box; border-image: none; }
 combobox arrow, dropdown arrow { -gtk-icon-source: none; min-width: 0; min-height: 0; }
 
 /* ---------------- tooltips: Aqua's pale yellow */

diff --git a/tools/make_gtk_theme.py b/tools/make_gtk_theme.py
@@ -76,20 +76,21 @@ SLICES = {n: v for n, v in {
 
 def three(name):
     """Background layers that draw a gel as start cap + stretched middle + end cap.
-    GTK ignores the centre slice of border-image, so this replaces it. The element's
+    GTK ignores the centre slice of border-image, so this replaces it. The middle column is
+    tiled, not stretched: GTK 3 fades the edges of a stretched 1px image. The element's
     padding must equal the cap sizes: the middle layer is clipped to the content box."""
     axis, a, b = SLICES[name]
     sc = lambda k: f'-gtk-scaled(url("assets/{name}-{k}.png"), url("assets/{name}-{k}@2.png"))'  # noqa: E731
     if axis == "h":
         return (f"background-image: {sc('s')}, {sc('e')}, {sc('m')}; "
                 f"background-position: left top, right top, left top; "
-                f"background-size: {a}px 100%, {b}px 100%, 100% 100%; "
-                f"background-repeat: no-repeat; background-origin: border-box, border-box, content-box; "
+                f"background-size: {a}px 100%, {b}px 100%, 1px 100%; "
+                f"background-repeat: no-repeat, no-repeat, repeat-x; background-origin: border-box, border-box, content-box; "
                 f"background-clip: border-box, border-box, content-box; border-image: none;")
     return (f"background-image: {sc('s')}, {sc('e')}, {sc('m')}; "
             f"background-position: left top, left bottom, left top; "
-            f"background-size: 100% {a}px, 100% {b}px, 100% 100%; "
-            f"background-repeat: no-repeat; background-origin: border-box, border-box, content-box; "
+            f"background-size: 100% {a}px, 100% {b}px, 100% 1px; "
+            f"background-repeat: no-repeat, no-repeat, repeat-y; background-origin: border-box, border-box, content-box; "
             f"background-clip: border-box, border-box, content-box; border-image: none;")
 
 
@@ -398,7 +399,7 @@ label:disabled, label:backdrop:disabled {{ color: #8a8a8a; }}
 button {{
   min-height: 22px;
   min-width: 41px;
-  padding: 0 14px;
+  padding: 0 13px;  /* one less than the 14px caps: the middle tucks under them, no seam */
   border-style: solid;
   border-width: 0;
   {three("button")}
@@ -543,13 +544,13 @@ scrollbar.horizontal {scroll_trough.split()[-1]} {{ background-image: linear-gra
 }}
 scrollbar.vertical slider {{
   min-height: 24px;
-  padding: 7px 0 8px 0;
+  padding: 6px 0 7px 0;
   border-width: 0;
   {three("thumb-v")}
 }}
 scrollbar.horizontal slider {{
   min-width: 24px;
-  padding: 0 8px 0 7px;
+  padding: 0 7px 0 6px;
   border-width: 0;
   {three("thumb-h")}
 }}
@@ -616,14 +617,14 @@ scale slider:backdrop {{ background-image: {scaled("knob-backdrop")}; }}
 /* ---------------- progress bars: light gel groove, blue gel fill (grey in the background) */
 progressbar trough {{
   min-height: 14px; min-width: 14px;
-  padding: 0 4px;
+  padding: 0 3px;
   border-style: solid;
   border-width: 0;
   {three("trough")}
 }}
 progressbar progress {{
   min-height: 14px; min-width: 8px;
-  padding: 0 4px;
+  padding: 0 3px;
   margin: 0;
   border-style: solid;
   border-width: 0;
@@ -646,7 +647,7 @@ notebook > header.top {{
 }}
 notebook > header tab {{
   min-height: 23px;
-  padding: 0 12px;
+  padding: 0 11px;
   margin: 0 -1px 0 0;
   background-color: transparent;
   border-style: solid;
@@ -697,7 +698,7 @@ separator {{ background: none; min-height: 1px; min-width: 1px; }}
 /* ---------------- combo boxes / drop-downs: white pop-up with the blue double-arrow cap */
 combobox button.combo, dropdown > button, button.dropdown, combobox > box > button {{
   min-height: 22px;
-  padding: 0 29px 0 9px;
+  padding: 0 28px 0 8px;
   border-style: solid;
   border-width: 0;
   {three("popup")}
